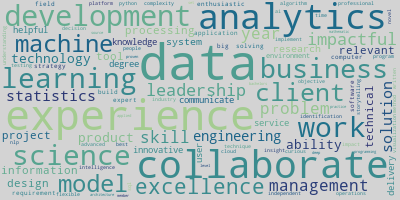
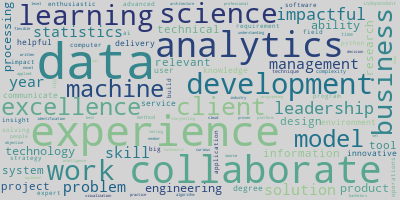
Completed visualize_professional function and testing

diff --git a/nlp_main.py b/nlp_main.py
@@ -3655,6 +3655,14 @@ def visualize_n_grams(n_grams, ds_cred_terms, ds_tech_skill_terms, ds_soft_skill
                         in_layout=True,
                         wrap=True) 
 
+        # visualize professional skills by count
+        bigram_match_to_prof_list = monograms_and_bigrams_by_count()
+        
+        # visualize professional skills by percentage
+        df_jobs_mono = monograms_by_percentage(df_jobs_raw)
+        df_jobs_bigrams = bigrams_by_percentage(df_jobs_raw, bigram_match_to_prof_list)
+        monograms_and_bigrams_by_percentage(df_jobs_mono, df_jobs_bigrams)
+
     # create a clean dataframe where each record is a unique listing, and each term is tokenized
     df_jobs_raw = clean_listings_for_nlp(series_of_interest, additional_stopwords, term_fixes) 
     
